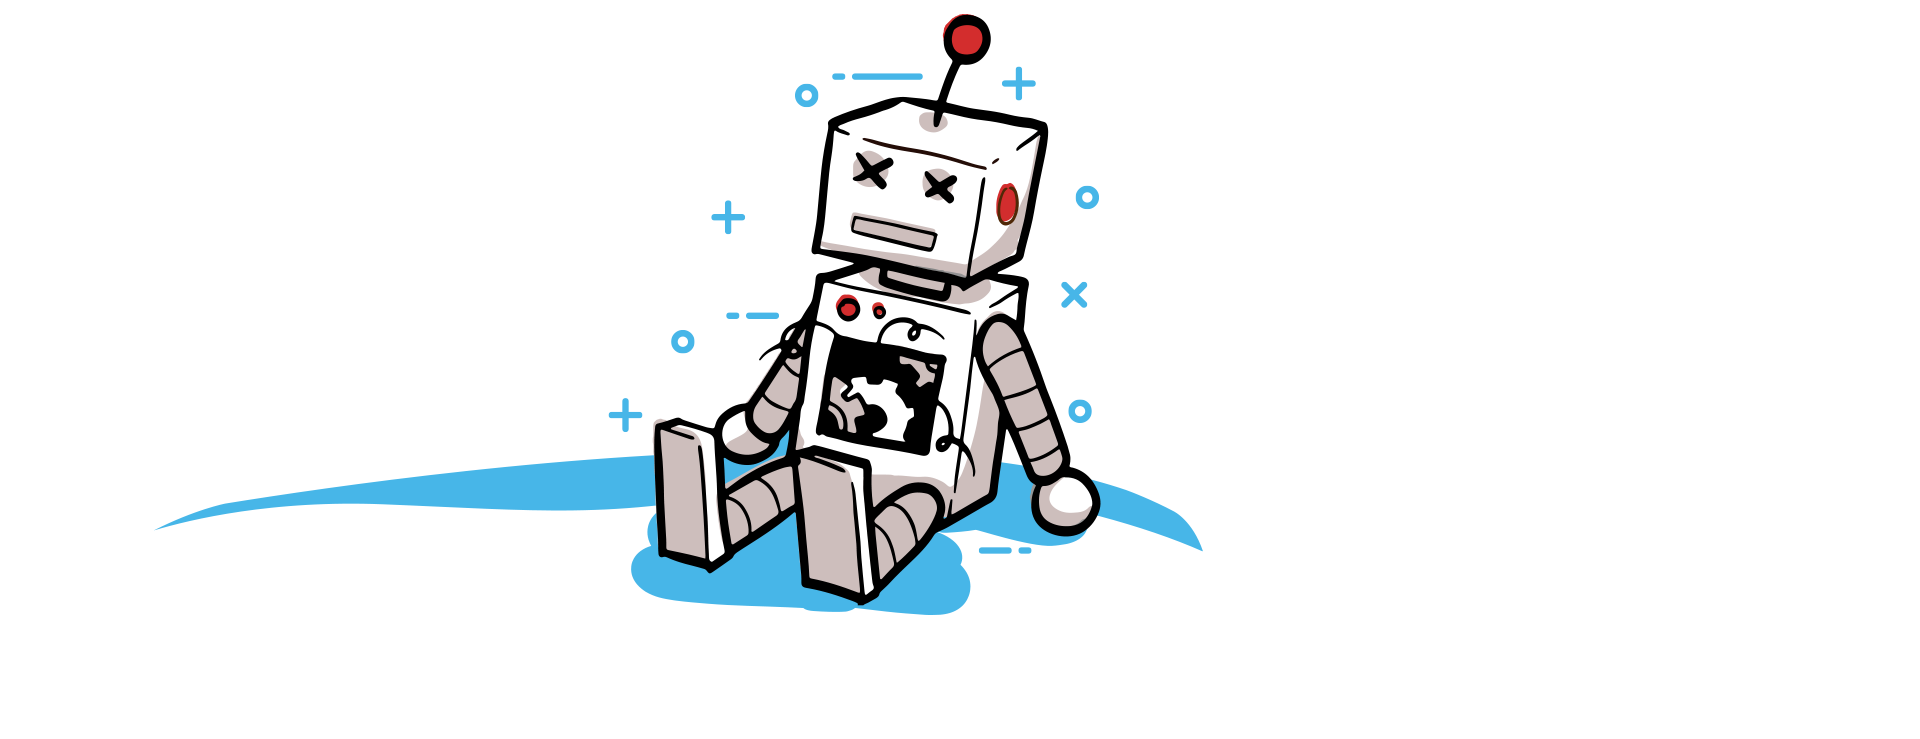
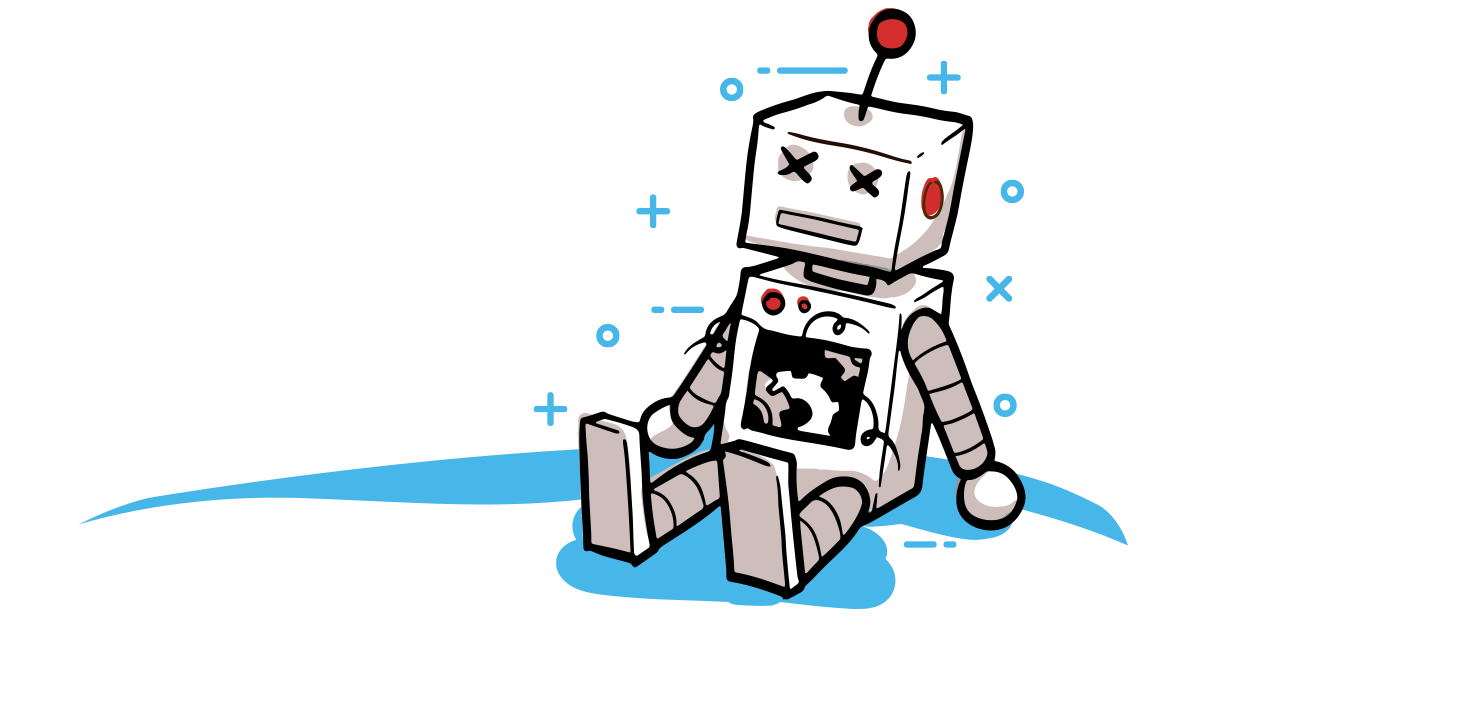
changes to 404

Changed region(s): [[0.0614, 0.0, 0.7679, 0.8663], [0.3379, 0.4481, 0.3686, 0.478], [0.3072, 0.5377, 0.3379, 0.5676]]

diff --git a/src/styles/404.scss b/src/styles/404.scss
@@ -4,7 +4,8 @@
   display: flex;
   justify-content: center;
   align-items: center;
-  height: 100vh;
+  height: 95vh;
+  // max-width: 100%;
 
   & > img {
     transform: scale(0.5);
